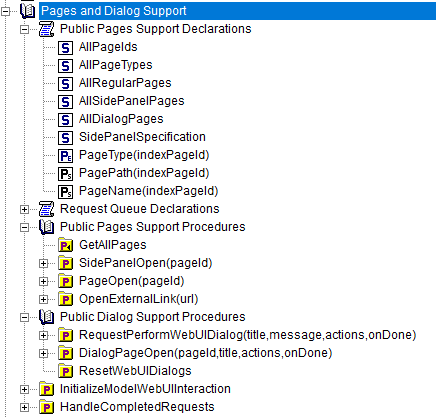
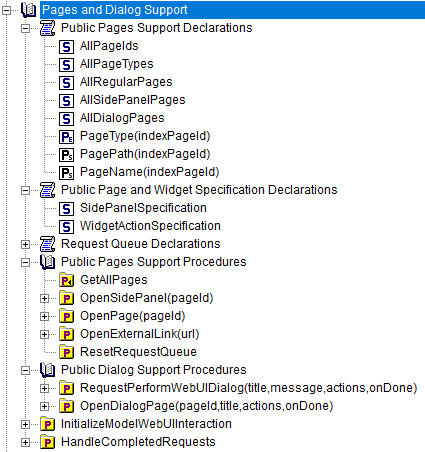
Changed page option procedure names and updated links

Changed region(s): [[0.0, 0.0, 1.0, 0.9976], [0.0, 0.9976, 0.0306, 1.0]]

diff --git a/webui/library.rst b/webui/library.rst
@@ -11,34 +11,36 @@ Pages and Dialog Support has been added to the AimmsWebUI library to be able to 
 .. image:: images/pageanddialogsupportsection.png
 			:align: center
 
-There are 2 sub sections Declarations and Procedures: 
-
 Public Pages Support Declarations: 
 
 * AllPageIDs - This set includes all the page ID for all page types added to the `Page Manager <page-manager.html>`_ (page tree). 
 * AllPageTypes - This set includes the different page types, currently page, side panel and dialog. 
 * AllSidePanelPages - This set includes all the side panel pages added to the Page Manager. 
 * AllDialogpage - This set includes all the dialog pages added to the Page Manager. 
-* SidePanelSpecification - This set is the specification for the side panel pages. The sting parameters used to `configure the side panels <page-manager.html#configuring-side-panels>`_ on pages are indexed on this set as well. 
 * PageType(indexPageId) - This string parameter indexed on AllPageIds set maps which page type applies to which page id.
 * PagePath(indexPageId) - This string parameter indexed on AllPageIds set maps the path for each page created.
 * PageName(indexPageId) - This string parameter indexed on AllPageIds set maps the path for each page created.
 
+Public Page and Widget Specification Declarations:
+
+* SidePanelSpecification - This set is the specification for the side panel pages. The sting parameters used to `configure the side panels <page-manager.html#configuring-side-panels>`_ on pages are indexed on this set. 
+* WidgetActionSpecification - This set is the specification for adding widget actions. The sting parameters used to configure the widget actions on certain widgets are indexed on this set.
 
 Request Queue Declarations is used to manage the number of requests from WebUI. 
 
 Public Pages Support Procedures:
 
 * GetAllPages - This procedure is runs everytime a page, side panel or dialog page is added to the page manager, which inturn updates the sets and identifiers in the Public Pages Support Declarations.
-* SidePanelOpen(pageId) - This procedure is used to open side panels via the model with respective pageIds as the argument. 
-* PageOpen(pageId) - This procedure is used to open/navigate to other pages in the application via the model, by passing the respecive pageId as the argument. 
+* OpenSidePanel(pageId) - This procedure is used to open side panels via the model with respective pageIds as the argument. 
+* OpenPage(pageId) - This procedure is used to open/navigate to other pages in the application via the model, by passing the respecive pageId as the argument. 
 * OpenExternalLink(url) - This procedure is used to open external links, by passing the URL as the argument. These links will open in a new tab in the browser.
+* ResetRequestQueue - This procedure emptys the RequestQueue and the Requests set in the Request Queue Declarations.
 
 Public Dialog Support Procedures:  
 
 * `RequestPerformWebUIDialog(title,message,actions,onDone) <#requestperformwebuidialog>`_ - This procedure is used to display dialog message, such as alerts or warnings.
-* `DialogPageOpen(pageId,title,actions,onDone) <#dialogpageopen>`_ - This procedure is used to open `dialog pages <page-manager.html#dialog-pages>`_ via the model, either by clicking on a button or some interaction in the model.
-* ResetWebUIDialogs - This procedure emptys the RequestQueue and the Requests set in the Request Queue Declarations. 
+* `OpenDialogPage(pageId,title,actions,onDone) <#opendialogpage>`_ - This procedure is used to open `dialog pages <page-manager.html#dialog-pages>`_ via the model, either by clicking on a button or some interaction in the model.
+ 
 
 requestPerformWebUIDialog
 =========================
@@ -75,10 +77,10 @@ Remarks
 * You can use a translation file (e.g. ‘WebUI/resources/languages/<dialog_actions>.properties’) to provide translations for the various internal action names, containing, for example: :token:`discard-and-continue = Discard and continue`.
 
 
-DialogPageOpen
+OpenDialogPage
 ==============
 
-You can call the procedure :token:`webui::DialogPageOpen` to invoke a `dialog page <page-manager.html#dialog-pages>`_ in a WebUI page. Along with opening the dialog page you can also configure the title and the buttons with a specific callback.
+You can call the procedure :token:`webui::OpenDialogPage` to invoke a `dialog page <page-manager.html#dialog-pages>`_ in a WebUI page. Along with opening the dialog page you can also configure the title and the buttons with a specific callback.
 
 Arguments
 ---------
@@ -94,15 +96,18 @@ This procedure has the following aguments:
 Example
 -------
 
-As an example, the following code will display the dialog in the picture below it and will call the procedure :token:`PerformAction(TheAction)` upon clicking one of its buttons (with :token:`TheAction` being an input string parameter argument):
+As an example, the following code will display the dialog in the picture below it and will call the procedure :token:`Procedure_Actions(TheAction)` upon clicking one of its buttons (with :token:`TheAction` being an input string parameter argument):
 
 .. code::
 
-    MyActions := data { Yes, No, Cancel };
-    webui::requestPerformWebUIDialog("Save", "Do you want to save your data?", MyActions, 'PerformAction');
+	MyActions:= data { Decline, Accept };
+	pageId := 'dialog_page';
+	webui::OpenDialogPage(pageId, "Dialog Page Title", MyActions, 'Procedure_Actions');
 
-.. image:: images/savedialog.jpg
-    :align: center
+
+.. image:: images/dialog_procedurecall.png
+			:align: center
+			:scale: 50
 
 
 Authorization Support

diff --git a/webui/page-manager.rst b/webui/page-manager.rst
@@ -467,9 +467,9 @@ Dialog Pages
 .. important:: Dialog pages are available in software versions from AIMMS 4.65 onwards.
 
 
-Dialog Pages are used for intermediate actions or steps in your workflow. You can build model interaction by calling dialog pages for the user to perform a specific action such as setting SLA's or adjusting inventory etc. In addition, you can use Dialog pages to display information about a selected item without breaking the flow by calling the DialogPageOpen function. For example showing the detailed properties of a schedule batch. 
+Dialog Pages are used for intermediate actions or steps in your workflow. You can build model interaction by calling dialog pages for the user to perform a specific action such as setting SLA's or adjusting inventory etc. In addition, you can use Dialog pages to display information about a selected item without breaking the flow by calling the OpenDialogPage function. For example showing the detailed properties of a schedule batch. 
 
-A dialog page has 3 predefined sizes; Small, Medium and Large. Dialog pages can have upto 3 buttons, 2 of which are shown by default, typically Cancel and OK. The text and callback procedures for these buttons can be controlled via the DialogPageOpen function. 
+A dialog page has 3 predefined sizes; Small, Medium and Large. Dialog pages can have upto 3 buttons, 2 of which are shown by default, typically Cancel and OK. The text and callback procedures for these buttons can be controlled via the OpenDialogPage function. 
 
 When a dialog box is open the user can only interact with the dialog. The dialog box can only be closed by clicking on one of the actions.   
 
@@ -541,7 +541,7 @@ When the height of a widget exceeds the height of the dialog page, the widget wi
 Configuring dialog pages
 ++++++++++++++++++++++++
 
-The procedure `DialogPageOpen(pageId,title,actions,onDone) <library.html#dialogpageopen>`_ needs to be used to invoke dialog pages on the desired page. 
+The procedure `OpenDialogPage(pageId,title,actions,onDone) <library.html#opendialogpage>`_ needs to be used to invoke dialog pages on the desired page. 
 
 An example of the procedure with declarations would result in:
 
@@ -549,7 +549,7 @@ An example of the procedure with declarations would result in:
 
 	MyActions:= data { Decline, Accept };
 	pageId := 'dialog_page';
-	webui::DialogPageOpen(pageId, "Dialog Page Title", MyActions, 'Procedure_Actions');
+	webui::OpenDialogPage(pageId, "Dialog Page Title", MyActions, 'Procedure_Actions');
 
 
 .. image:: images/dialog_procedurecall.png
